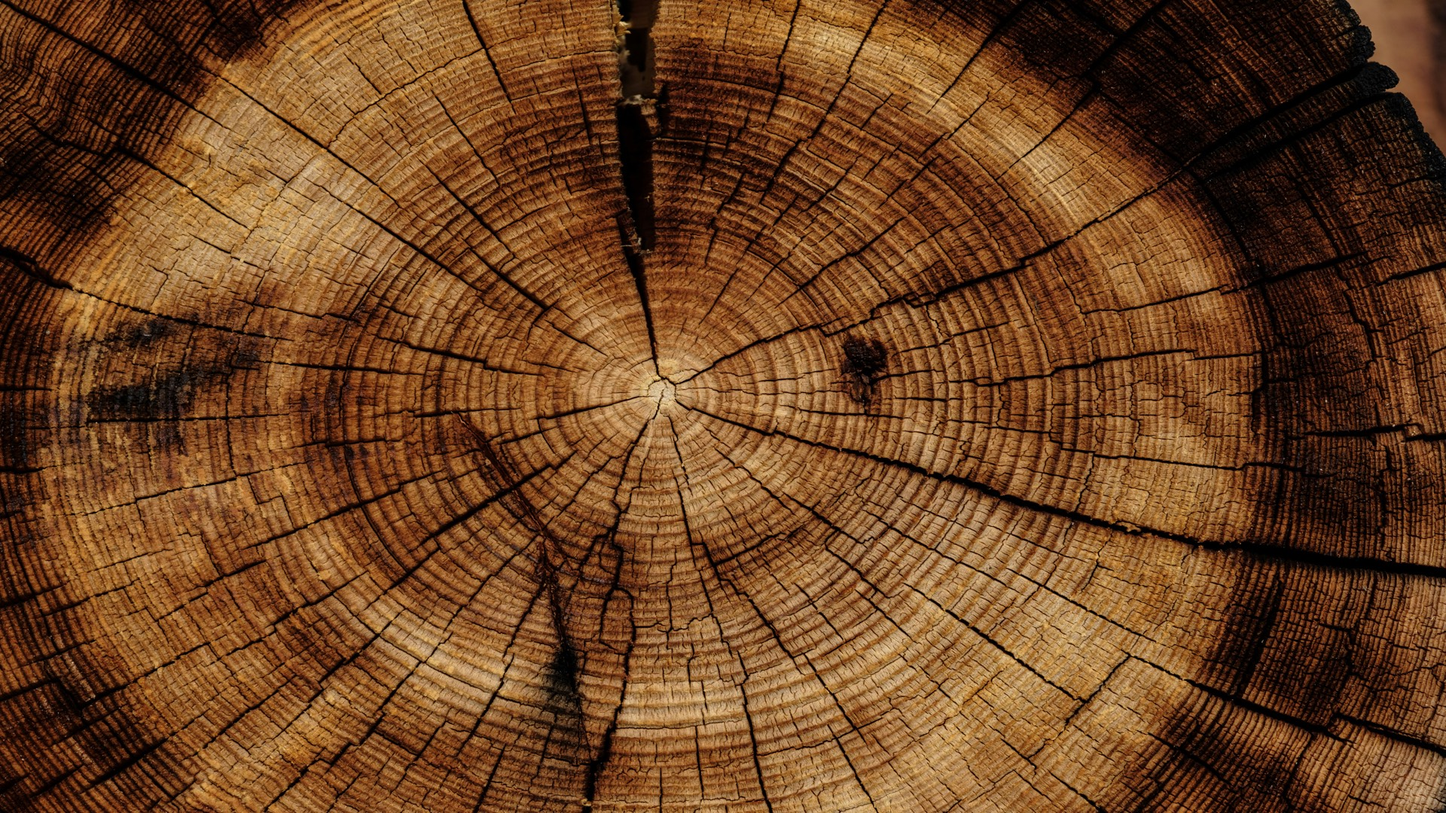
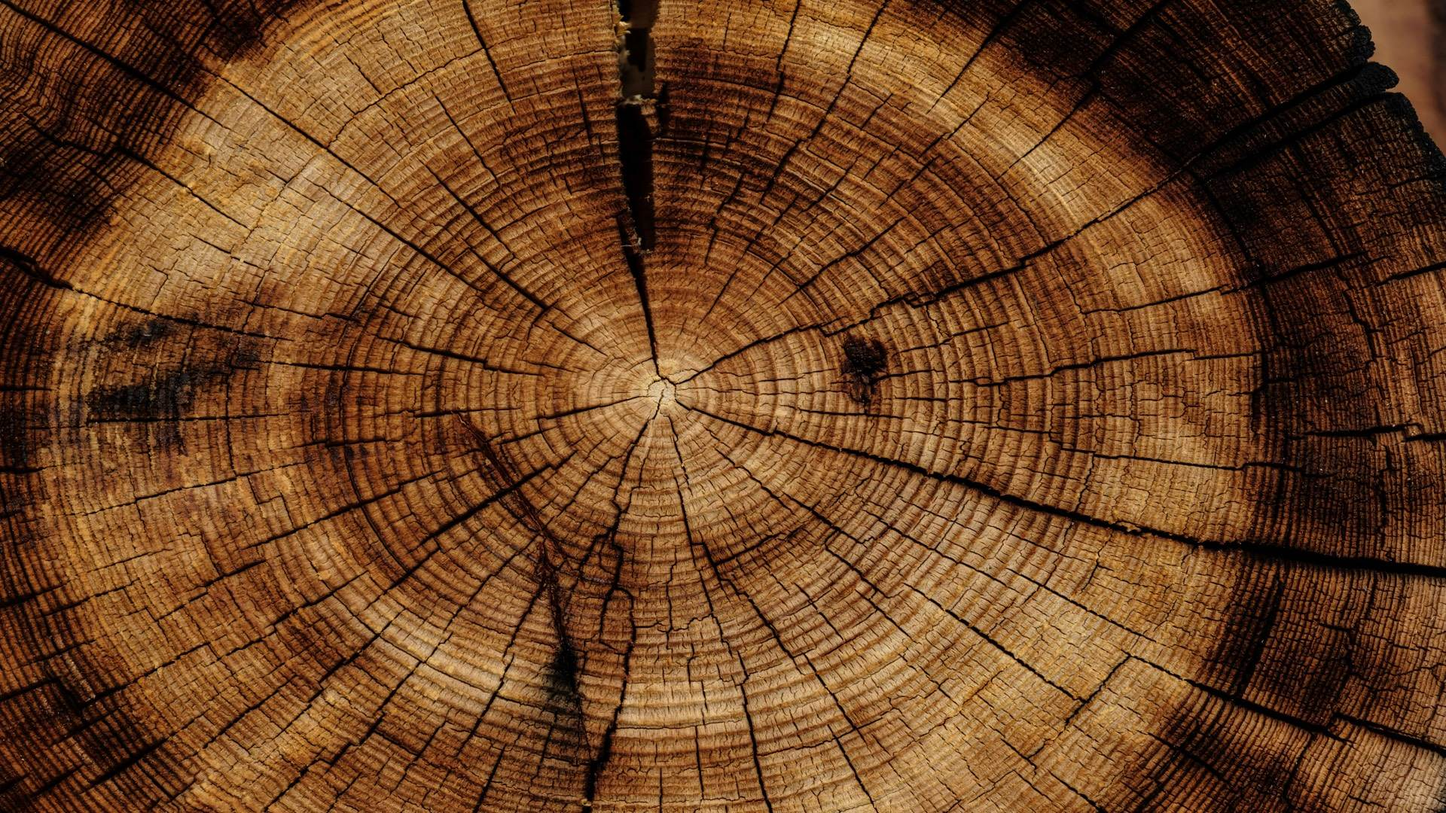
perf: paint the hero instantly instead of waiting on Convex
The hero image URL came from a Convex siteAssets query, so the LCP image only started downloading after the JS bundle, React mount and the websocket roundtrip, with a placehold.co fetch shown meanwhile.

- serve the seeded hero from optimized local variants (89-420 KB vs 934 KB) preloaded via <link> with fetchpriority, plus a blurred inline placeholder; a differently named CMS asset still overrides
- move Google Fonts from a blocking CSS @import to parallel <link> tags with preconnect
- inject preconnect/dns-prefetch for the environment Convex origin
- render the bundled logo before the siteAssets query resolves
- lazy-load product card images and the cart route
- cache /images/ for a week on Vercel; halve wood-bg.jpg

Generated with [Devin](https://devin.ai)

diff --git a/src/components/Hero/Hero.tsx b/src/components/Hero/Hero.tsx
@@ -1,52 +1,69 @@
 import type React from 'react';
+import { useState } from 'react';
 import { useNavigate } from 'react-router-dom';
 import { useTranslation } from 'react-i18next';
 import { Button } from '@/components/ui/button';
 
+const LOCAL_HERO_SRC = '/images/hero-wood-1920.jpg';
+const LOCAL_HERO_SRCSET =
+  '/images/hero-wood-828.jpg 828w, /images/hero-wood-1280.jpg 1280w, /images/hero-wood-1920.jpg 1920w';
+const HERO_PLACEHOLDER =
[1 lines of base64/hex data omitted]
+
 interface HeroProps {
- backgroundImage: string;
+  backgroundImage?: string;
 }
 
 export const Hero: React.FC<HeroProps> = ({ backgroundImage }) => {
- const navigate = useNavigate();
- const { t } = useTranslation();
- return (
- <div className="relative min-h-screen">
- {/* Background Image */}
- <div className="absolute inset-0">
- <img
- src={backgroundImage}
- alt="Woodworking background"
- className="w-full h-full object-cover object-center"
- />
- <div className="absolute inset-0 bg-gradient-to-b from-black/60 via-black/40 to-black/70"></div>
- </div>
+  const navigate = useNavigate();
+  const { t } = useTranslation();
+  const [imageLoaded, setImageLoaded] = useState(false);
+  const isCustomImage = Boolean(backgroundImage);
+  return (
+    <div className="relative min-h-screen">
+      {/* Background Image */}
+      <div
+        className="absolute inset-0 bg-stone-900 bg-cover bg-center"
+        style={{ backgroundImage: `url("${HERO_PLACEHOLDER}")` }}
+      >
+        <img
+          src={backgroundImage ?? LOCAL_HERO_SRC}
+          srcSet={isCustomImage ? undefined : LOCAL_HERO_SRCSET}
+          sizes="100vw"
+          alt="Woodworking background"
+          decoding="async"
+          ref={(img) => img?.setAttribute('fetchpriority', 'high')}
+          onLoad={() => setImageLoaded(true)}
+          className={`w-full h-full object-cover object-center transition-opacity duration-500 ${imageLoaded ? 'opacity-100' : 'opacity-0'}`}
+        />
+        <div className="absolute inset-0 bg-gradient-to-b from-black/60 via-black/40 to-black/70"></div>
+      </div>
 
- {/* Centred Content */}
- <div className="relative z-10 flex flex-col items-center justify-center text-center w-full px-6 sm:px-8 lg:px-12 min-h-[85vh] gap-6">
- <p className="text-amber-400 text-sm font-medium tracking-[0.25em] uppercase animate-fade-in">{t('hero.subtitle')}</p>
- <h1 className="font-serif text-4xl sm:text-5xl lg:text-7xl font-medium text-white leading-tight max-w-4xl animate-fade-in-up">
- {t('hero.title')}
- </h1>
- <p className="max-w-2xl text-base md:text-lg text-white/70 leading-relaxed font-light animate-fade-in-up" style={{ animationDelay: '0.15s' }}>
- {t('hero.description')}
- </p>
- <Button
- variant="secondary"
- onClick={() => navigate('/catalog')}
- className="mt-4 h-auto bg-white px-10 py-3.5 text-sm font-medium tracking-wide text-stone-900 transition-all duration-300 hover:bg-amber-50 hover:text-stone-900 hover:shadow-soft-lg animate-fade-in-up"
- style={{ animationDelay: '0.3s' }}
- >
- {t('hero.viewCatalog')}
- </Button>
- </div>
+      {/* Centred Content */}
+      <div className="relative z-10 flex flex-col items-center justify-center text-center w-full px-6 sm:px-8 lg:px-12 min-h-[85vh] gap-6">
+        <p className="text-amber-400 text-sm font-medium tracking-[0.25em] uppercase animate-fade-in">{t('hero.subtitle')}</p>
+        <h1 className="font-serif text-4xl sm:text-5xl lg:text-7xl font-medium text-white leading-tight max-w-4xl animate-fade-in-up">
+          {t('hero.title')}
+        </h1>
+        <p className="max-w-2xl text-base md:text-lg text-white/70 leading-relaxed font-light animate-fade-in-up" style={{ animationDelay: '0.15s' }}>
+          {t('hero.description')}
+        </p>
+        <Button
+          variant="secondary"
+          onClick={() => navigate('/catalog')}
+          className="mt-4 h-auto bg-white px-10 py-3.5 text-sm font-medium tracking-wide text-stone-900 transition-all duration-300 hover:bg-amber-50 hover:text-stone-900 hover:shadow-soft-lg animate-fade-in-up"
+          style={{ animationDelay: '0.3s' }}
+        >
+          {t('hero.viewCatalog')}
+        </Button>
+      </div>
 
- {/* Scroll indicator */}
- <div className="absolute bottom-8 left-1/2 -translate-x-1/2 z-10 animate-fade-in" style={{ animationDelay: '0.6s' }}>
- <div className="w-5 h-8 rounded-full border-2 border-white/30 flex justify-center pt-1.5">
- <div className="w-1 h-2 bg-white/50 rounded-full animate-bounce"></div>
- </div>
- </div>
- </div>
- );
+      {/* Scroll indicator */}
+      <div className="absolute bottom-8 left-1/2 -translate-x-1/2 z-10 animate-fade-in" style={{ animationDelay: '0.6s' }}>
+        <div className="w-5 h-8 rounded-full border-2 border-white/30 flex justify-center pt-1.5">
+          <div className="w-1 h-2 bg-white/50 rounded-full animate-bounce"></div>
+        </div>
+      </div>
+    </div>
+  );
 };

diff --git a/vite.config.ts b/vite.config.ts
@@ -8,6 +8,7 @@ import { writeSearchFiles } from './scripts/generate-sitemap';
 export default defineConfig(({ mode }) => {
   const variables = loadEnv(mode, process.cwd(), 'VITE_');
   const environment = validateFrontendEnvironment(variables);
+  const convexOrigin = new URL(environment.convexUrl).origin;
   let outputDirectory = 'dist';
   return {
   plugins: [
@@ -16,6 +17,8 @@ export default defineConfig(({ mode }) => {
       name: 'environment-bound-search-files',
       configResolved: (config) => { outputDirectory = config.build.outDir; },
       transformIndexHtml: () => [
+        { tag: 'link', attrs: { rel: 'preconnect', href: convexOrigin, crossorigin: true }, injectTo: 'head-prepend' },
+        { tag: 'link', attrs: { rel: 'dns-prefetch', href: convexOrigin }, injectTo: 'head-prepend' },
         { tag: 'meta', attrs: { name: 'app-environment', content: environment.name }, injectTo: 'head' },
         ...(environment.name === 'test' ? [
           { tag: 'meta', attrs: { name: 'robots', content: 'noindex, nofollow, noarchive' }, injectTo: 'head' as const },

diff --git a/src/App.tsx b/src/App.tsx
@@ -5,7 +5,6 @@ import { HelmetProvider } from 'react-helmet-async';
 import { Layout } from './components/Layout';
 import { Home } from './pages/Home/Home';
 import { Products } from './pages/Products/Products';
-import { Cart } from './pages/Cart/Cart';
 import { CartProvider } from './context/CartContext';
 import { ShippingProvider } from './context/ShippingContext';
 import MaintenanceGuard from './components/MaintenanceGuard/MaintenanceGuard';
@@ -15,6 +14,7 @@ import { Toaster } from './components/ui/sonner';
 import { EnvironmentBanner } from './components/EnvironmentBanner/EnvironmentBanner';
 
 // Lazy-loaded pages
+const Cart = lazy(() => import('./pages/Cart/Cart').then((m) => ({ default: m.Cart })));
 const Catalog = lazy(() => import('./pages/Catalog/Catalog').then((m) => ({ default: m.Catalog })));
 const Checkout = lazy(() => import('./pages/Checkout/Checkout').then((m) => ({ default: m.Checkout })));
 const ThankYou = lazy(() => import('./pages/ThankYou/ThankYou').then((m) => ({ default: m.ThankYou })));

diff --git a/index.html b/index.html
@@ -4,6 +4,20 @@
     <meta charset="UTF-8" />
     <link rel="icon" href="/hawaii-logo-without-text.ico" type="image/svg+xml" />
     <meta name="viewport" content="width=device-width, initial-scale=1.0" />
+    <link rel="preconnect" href="https://fonts.googleapis.com" />
+    <link rel="preconnect" href="https://fonts.gstatic.com" crossorigin />
+    <link
+      rel="preload"
+      as="image"
+      href="/images/hero-wood-1920.jpg"
+      imagesrcset="/images/hero-wood-828.jpg 828w, /images/hero-wood-1280.jpg 1280w, /images/hero-wood-1920.jpg 1920w"
+      imagesizes="100vw"
+      fetchpriority="high"
+    />
+    <link
+      href="https://fonts.googleapis.com/css2?family=Inter:wght@300;400;500;600;700&family=Playfair+Display:ital,wght@0,400;0,500;0,600;0,700;1,400&display=swap"
+      rel="stylesheet"
+    />
     <script src="/theme-init.js"></script>
     <title>Hawaii Woodworks</title>
   </head>

diff --git a/src/components/Layout/Layout.tsx b/src/components/Layout/Layout.tsx
@@ -7,9 +7,8 @@ import { useSiteAssets } from '../../hooks/useSiteAssets';
 export const Layout: React.FC = () => {
  const { assets: logoAssets } = useSiteAssets('logo');
  const logoSrc =
- logoAssets.find((asset) => asset.name === 'hawaii-logo.svg')?.url ??
- logoAssets[0]?.url ??
- '/hawaii-logo-without-text.png';
+ logoAssets.find((asset) => asset.name !== 'hawaii-logo.svg')?.url ??
+ '/images/hawaii-logo.svg';
 
  return (
  <div className="flex min-h-screen flex-col overflow-x-clip bg-stone-50 dark:bg-stone-950 ">

diff --git a/src/pages/Home/Home.tsx b/src/pages/Home/Home.tsx
@@ -7,10 +7,7 @@ import { useSiteAssets } from '../../hooks/useSiteAssets';
 export const Home: React.FC = () => {
  const { assets: heroAssets } = useSiteAssets('hero');
 
- const heroBackgroundImage =
- heroAssets.find((asset) => asset.name === 'WoodPhoto.jpg')?.url ??
- heroAssets[0]?.url ??
- 'https://placehold.co/1600x900?text=Hawaii+Woodworking';
+ const heroBackgroundImage = heroAssets.find((asset) => asset.name !== 'WoodPhoto.jpg')?.url;
 
  const schema = {
  '@context': 'https://schema.org',

diff --git a/src/components/ImageCarousel/ImageCarousel.tsx b/src/components/ImageCarousel/ImageCarousel.tsx
@@ -48,6 +48,8 @@ export const ImageCarousel: React.FC<ImageCarouselProps> = ({
  <img
  src={currentSrc}
  alt={`${alt} - image ${currentIndex + 1}`}
+ loading="lazy"
+ decoding="async"
  className={`${className} transition-all duration-500 ease-in-out`}
  />
  {images.length > 1 && (

diff --git a/src/index.css b/src/index.css
@@ -1,5 +1,3 @@
-@import url("https://fonts.googleapis.com/css2?family=Inter:wght@300;400;500;600;700&family=Playfair+Display:ital,wght@0,400;0,500;0,600;0,700;1,400&display=swap");
-
 @tailwind base;
 @tailwind components;
 @tailwind utilities;
